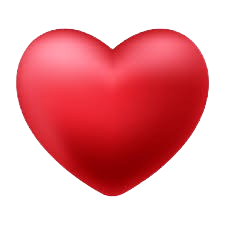
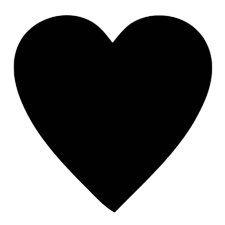
fix favorites

diff --git a/frontend/src/components/favorites/FavoritesList.tsx b/frontend/src/components/favorites/FavoritesList.tsx
@@ -1,8 +1,16 @@
 import React, { useEffect, useState } from 'react';
 import { getLiked, removeLike } from '../../model/likeMusic';
+import {useNavigate} from "react-router-dom";
+import {playTrack} from "../../reducers/audioSlice";
+import {useDispatch, useSelector} from "react-redux";
+import {AppDispatch, RootState} from "../../reducers";
+import {changePlaylist} from "../../reducers/playlistSlice";
 export default function FavoritesList() {
     /* eslint-disable @typescript-eslint/no-explicit-any */
     const [likedTracks, setLikedTracks] = useState<any[]>([]);
+    const navigate = useNavigate();
+    const dispatch = useDispatch<AppDispatch>();
+    const tracks = useSelector((state: RootState) => state.audio.tracks);
 
     useEffect(() => {
         const fetchLikedTracks = async () => {
@@ -28,9 +36,18 @@ export default function FavoritesList() {
         }
     };
 
+    const handleStartLikedTrack = async (trackId: any, playlist_id: any) => {
+        dispatch(changePlaylist(playlist_id));
+        const trackIndex = tracks.findIndex((track) => track.id === trackId);
+
+        if (trackIndex !== -1) {
+            dispatch(playTrack(trackIndex));
+        }
+    }
+
     return (
         <div className="d-flex justify-content-center w-100">
-            <div style={{ position: 'relative', paddingBottom: '100px'}}>
+            <div style={{position: 'relative', paddingBottom: '100px'}}>
                 {likedTracks.length === 0 ? (
                     <p>Нет избранных треков.</p>
                 ) : (
@@ -38,21 +55,36 @@ export default function FavoritesList() {
                         <h3>Ваши избранные треки:</h3>
                         <div className="list-group">
                             {likedTracks.map((track) => (
-                                <div key={track.id} className="list-group-item d-flex justify-content-between align-items-center">
+                                <div key={track.id}
+                                     className="list-group-item d-flex justify-content-between align-items-center">
                                     <div className="d-flex align-items-center">
                                         <div>
                                             <h5>{track.name}</h5>
                                             <p>{track.author}</p>
                                         </div>
                                     </div>
-                                    <button
-                                        onClick={() => handleRemoveLike(track.id)}
-                                        className="btn btn-danger w-25">Удалить</button>
+                                    <div className="d-flex gap-2"> {/* Добавлен div для выравнивания кнопок */}
+                                        <button
+                                            className="btn btn-primary w-50"
+                                            onClick={() => handleStartLikedTrack(track.id, track.playlist_id)}
+                                        >
+                                            Выбрать
+                                        </button>
+                                        <button
+                                            onClick={() => handleRemoveLike(track.id)}
+                                            className="btn btn-danger w-50"
+                                        >
+                                            Удалить
+                                        </button>
+                                    </div>
                                 </div>
                             ))}
                         </div>
                     </div>
                 )}
+                <div className="container p-2 d-flex justify-content-center w-100">
+                    <button className="btn btn-warning" onClick={() => navigate(-1)}>Назад</button>
+                </div>
             </div>
         </div>
     );
